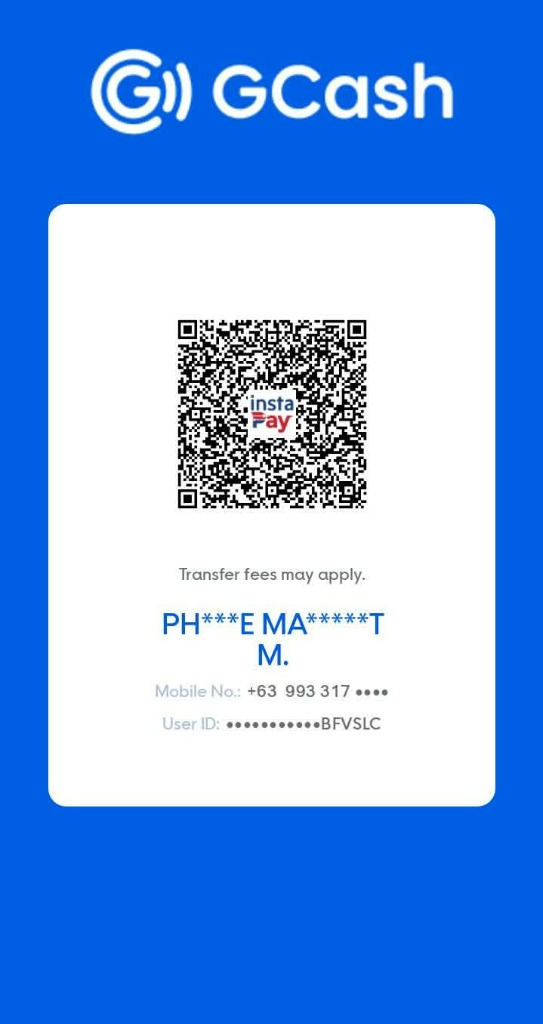
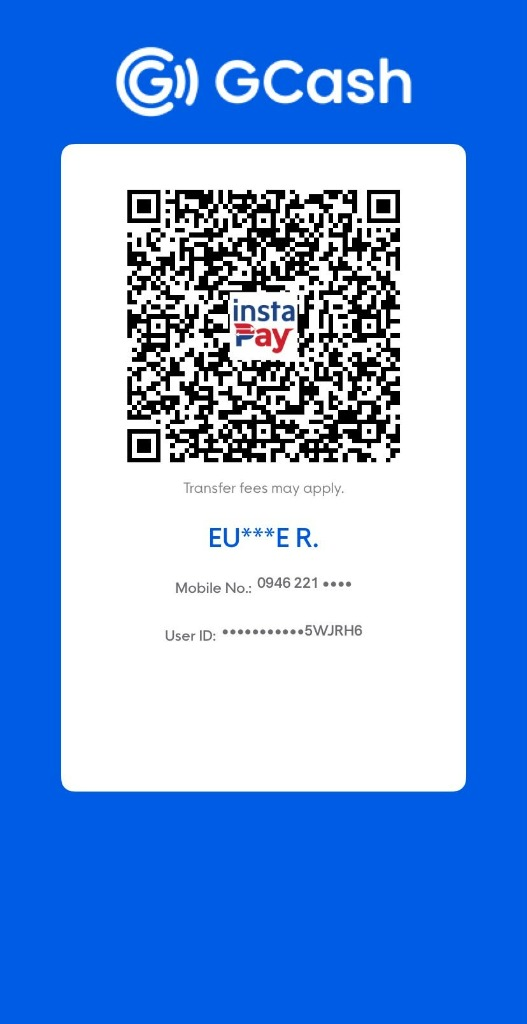
feat(payments): update official GCash QR image, remove account name, and enable instant direct QR payment

Changed region(s): [[0.0607, 0.0312, 0.9412, 0.8125], [0.2732, 0.6562, 0.425, 0.7188]]

diff --git a/app/book/page.tsx b/app/book/page.tsx
@@ -944,7 +944,7 @@ function BookTripContent() {
                     </Card>
 
                     {/* Official PayMongo GCash Gateway Payment Form */}
-                    <form onSubmit={handleProceedToCheckout} className="space-y-6">
+                    <form onSubmit={paymentMethod === "gcash_qr" ? handleConfirmDirectGcash : handleProceedToCheckout} className="space-y-6">
                         {/* SELECTION NG PICK-UP LOCATION (DESIGNATED BOARDING POINT) */}
                         <div className="space-y-3 rounded-2xl border-2 border-blue-500/50 p-4 bg-gradient-to-br from-blue-50/70 via-background to-blue-50/30 dark:from-blue-950/40 dark:via-background dark:to-blue-950/20 shadow-md">
                             <div className="flex items-center justify-between border-b pb-2">
@@ -1221,8 +1221,8 @@ function BookTripContent() {
                             </div>
                         </div>
 
-                        {/* 3. Official PayMongo GCash Payment Card (No Personal QR Required) */}
-                        <div className="rounded-2xl border-2 border-blue-500/50 bg-gradient-to-b from-blue-50/70 via-white to-blue-50/30 dark:from-blue-950/40 dark:via-zinc-900 dark:to-zinc-950 p-5 space-y-4 shadow-md">
+                        {/* 3. Payment Method Section: Direct GCash QR or PayMongo Gateway */}
+                        <div className="rounded-2xl border-2 border-blue-500/50 bg-gradient-to-b from-blue-50/70 via-white to-blue-50/30 dark:from-blue-950/40 dark:via-zinc-900 dark:to-zinc-950 p-5 space-y-5 shadow-md">
                             <div className="flex items-center justify-between border-b border-blue-200/80 dark:border-blue-900/60 pb-3">
                                 <div className="flex items-center gap-2.5">
                                     <div className="h-9 w-9 rounded-full bg-blue-600 text-white flex items-center justify-center font-black text-base shadow-sm">
@@ -1230,34 +1230,154 @@ function BookTripContent() {
                                     </div>
                                     <div>
                                         <h3 className="font-extrabold text-blue-950 dark:text-blue-100 text-base leading-tight">
-                                            3. GCash Online Payment (via PayMongo Gateway)
+                                            3. GCash Payment
                                         </h3>
                                         <p className="text-xs text-blue-700 dark:text-blue-300">
-                                            Official BSP-Supervised Automated Payment Gateway
+                                            Pumili ng paraan ng pagbayad sa GCash
                                         </p>
                                     </div>
                                 </div>
                                 <span className="text-xs font-bold px-3 py-1 rounded-full bg-emerald-600 text-white flex items-center gap-1.5 shadow-sm">
                                     <ShieldCheck className="h-4 w-4" />
-                                    100% Automated &amp; Instant
+                                    100% Verified Booking
                                 </span>
                             </div>
 
-                            {/* Gateway Information Banner */}
-                            <div className="rounded-xl bg-blue-100/70 dark:bg-blue-950/50 border border-blue-200 dark:border-blue-800 p-4 space-y-2 text-xs">
-                                <p className="font-bold text-blue-950 dark:text-blue-100 flex items-center gap-1.5">
-                                    <Sparkles className="h-4 w-4 text-blue-600 shrink-0" />
-                                    <span>Zero Manual Reference Verification:</span>
-                                </p>
-                                <p className="text-blue-900/90 dark:text-blue-200/90 leading-relaxed">
-                                    Hindi mo na kailangang mag-type ng Reference Number o mag-upload ng screenshot ng resibo. Pag-click ng <strong>&ldquo;Proceed to GCash Payment&rdquo;</strong>, ididirekta ka sa opisyal na PayMongo portal kung saan automatic na magbubukas ang iyong GCash app o opisyal na Dynamic QR code.
-                                </p>
-                                <div className="flex flex-wrap items-center gap-3 pt-1 text-[11px] font-semibold text-blue-800 dark:text-blue-300">
-                                    <span>• Instant QR Boarding Pass</span>
-                                    <span>• Automatic Audit &amp; Direct Admin Report</span>
-                                    <span>• PCI-DSS Level 1 Encrypted</span>
-                                </div>
+                            {/* Payment Method Selector Tabs */}
+                            <div className="grid grid-cols-2 gap-2 bg-blue-100/60 dark:bg-zinc-800 p-1.5 rounded-xl border border-blue-200 dark:border-zinc-700">
+                                <button
+                                    type="button"
+                                    onClick={() => setPaymentMethod("gcash_qr")}
+                                    className={`py-2.5 px-3 rounded-lg text-xs font-black transition-all flex items-center justify-center gap-2 ${
+                                        paymentMethod === "gcash_qr"
+                                            ? "bg-blue-600 text-white shadow-md"
+                                            : "text-muted-foreground hover:text-foreground"
+                                    }`}
+                                >
+                                    <QrCode className="h-4 w-4" />
+                                    <span>Direct GCash QR (Recommended)</span>
+                                </button>
+                                <button
+                                    type="button"
+                                    onClick={() => setPaymentMethod("paymongo")}
+                                    className={`py-2.5 px-3 rounded-lg text-xs font-black transition-all flex items-center justify-center gap-2 ${
+                                        paymentMethod === "paymongo"
+                                            ? "bg-blue-600 text-white shadow-md"
+                                            : "text-muted-foreground hover:text-foreground"
+                                    }`}
+                                >
+                                    <Wallet className="h-4 w-4" />
+                                    <span>PayMongo Gateway</span>
+                                </button>
                             </div>
+
+                            {/* TAB 1: DIRECT GCASH QR (SCAN TO PAY) */}
+                            {paymentMethod === "gcash_qr" && (
+                                <div className="space-y-4">
+                                    {/* QR Code Container */}
+                                    <div className="flex flex-col items-center justify-center p-4 bg-white dark:bg-zinc-800 rounded-2xl border-2 border-blue-200 dark:border-blue-900 shadow-sm space-y-3">
+                                        <div className="text-center space-y-1">
+                                            <span className="text-xs font-black text-blue-600 uppercase tracking-wider">
+                                                InstaPay &bull; GCash Official QR
+                                            </span>
+                                            <p className="text-[11px] text-muted-foreground">
+                                                I-scan gamit ang iyong GCash app para magbayad
+                                            </p>
+                                        </div>
+
+                                        {/* eslint-disable-next-line @next/next/no-img-element */}
+                                        <img
+                                            src={customQrUrl || process.env.NEXT_PUBLIC_GCASH_QR_URL || "/gcash-qr.jpg"}
+                                            alt="Superlines GCash QR Code"
+                                            className="max-h-72 w-auto rounded-xl border-2 border-blue-400 shadow-md bg-white p-1 object-contain"
+                                        />
+
+                                        <div className="flex items-center gap-3 text-xs font-semibold">
+                                            <a
+                                                href={customQrUrl || process.env.NEXT_PUBLIC_GCASH_QR_URL || "/gcash-qr.jpg"}
+                                                download="superlines-gcash-qr.jpg"
+                                                className="inline-flex items-center gap-1 text-blue-600 hover:text-blue-700 underline"
+                                            >
+                                                Save / Download QR Code
+                                            </a>
+                                        </div>
+                                    </div>
+
+                                    {/* Amount Details Box */}
+                                    <div className="rounded-xl bg-blue-50/70 dark:bg-blue-950/40 p-4 border border-blue-200 dark:border-blue-800 space-y-2 text-xs">
+                                        <div className="flex items-center justify-between">
+                                            <span className="font-bold text-foreground">Exact Amount to Send:</span>
+                                            <div className="flex items-center gap-2">
+                                                <span className="font-black text-lg text-emerald-600 dark:text-emerald-400 font-mono">
+                                                    ₱{finalFare}.00
+                                                </span>
+                                                <Button
+                                                    type="button"
+                                                    variant="outline"
+                                                    size="sm"
+                                                    className="h-7 px-2 text-xs font-bold text-blue-600 hover:text-blue-700"
+                                                    onClick={() => handleCopy(String(finalFare), "amount")}
+                                                >
+                                                    {copied === "amount" ? (
+                                                        <span className="flex items-center gap-1 text-emerald-600">
+                                                            <Check className="h-3 w-3" /> Copied
+                                                        </span>
+                                                    ) : (
+                                                        <span className="flex items-center gap-1">
+                                                            <Copy className="h-3 w-3" /> Copy ₱{finalFare}
+                                                        </span>
+                                                    )}
+                                                </Button>
+                                            </div>
+                                        </div>
+                                        <p className="text-[11px] text-muted-foreground leading-relaxed">
+                                            Buksan ang GCash app, pindutin ang <strong>QR (Scan)</strong>, i-scan ang code sa itaas, at bayaran ang eksaktong halaga na <strong>₱{finalFare}.00</strong>.
+                                        </p>
+                                    </div>
+
+                                    {/* GCash Reference Number Input */}
+                                    <div className="space-y-1.5 rounded-xl border p-4 bg-card">
+                                        <Label htmlFor="gcashRefInput" className="font-extrabold text-xs flex items-center justify-between">
+                                            <span className="flex items-center gap-1">
+                                                <span>GCash Reference Number (13 Digits)</span>
+                                                <span className="text-destructive">*</span>
+                                            </span>
+                                            <span className="text-[10px] text-muted-foreground font-normal">Hal: 1029384756102</span>
+                                        </Label>
+                                        <Input
+                                            id="gcashRefInput"
+                                            required
+                                            placeholder="I-type ang 13-digit Reference No. mula sa GCash receipt"
+                                            value={gcashRef}
+                                            onChange={(e) => setGcashRef(e.target.value)}
+                                            className="bg-white dark:bg-zinc-800 font-mono text-sm uppercase font-bold tracking-wider"
+                                            maxLength={30}
+                                        />
+                                        <p className="text-[10px] text-muted-foreground">
+                                            Makikita ang Reference Number sa GCash transaction receipt o SMS confirmation pagkatapos magbayad.
+                                        </p>
+                                    </div>
+                                </div>
+                            )}
+
+                            {/* TAB 2: PAYMONGO AUTOMATED GATEWAY */}
+                            {paymentMethod === "paymongo" && (
+                                <div className="space-y-4">
+                                    <div className="rounded-xl bg-blue-100/70 dark:bg-blue-950/50 border border-blue-200 dark:border-blue-800 p-4 space-y-2 text-xs">
+                                        <p className="font-bold text-blue-950 dark:text-blue-100 flex items-center gap-1.5">
+                                            <Sparkles className="h-4 w-4 text-blue-600 shrink-0" />
+                                            <span>Automated Checkout Session:</span>
+                                        </p>
+                                        <p className="text-blue-900/90 dark:text-blue-200/90 leading-relaxed">
+                                            Ididirekta ka sa opisyal na PayMongo portal kung saan automatic na magbubukas ang iyong GCash app para mag-login at magbayad gamit ang iyong GCash OTP.
+                                        </p>
+                                        <div className="flex flex-wrap items-center gap-3 pt-1 text-[11px] font-semibold text-blue-800 dark:text-blue-300">
+                                            <span>• 100% Instant Webhook Sync</span>
+                                            <span>• PCI-DSS Level 1 Encrypted</span>
+                                        </div>
+                                    </div>
+                                </div>
+                            )}
 
                             {/* Official Terms & Conditions */}
                             <div className="rounded-xl border p-4 bg-card space-y-3">
@@ -1286,13 +1406,13 @@ function BookTripContent() {
                                         </div>
                                         <div className="space-y-1">
                                             <p className="font-bold text-foreground">1. Ticketing, Rebooking, and Cancellations</p>
-                                            <p>• <strong>Reservation Policy:</strong> Tickets are valid only for the specific date and trip indicated.</p>
-                                            <p>• <strong>Arrival Time:</strong> Passengers must be at the terminal at least one (1) hour before departure.</p>
-                                            <p>• <strong>Penalty Fees:</strong> 20% penalty fee of the ticket price will be charged for rebooking.</p>
+                                            <p>&bull; <strong>Reservation Policy:</strong> Tickets are valid only for the specific date and trip indicated.</p>
+                                            <p>&bull; <strong>Arrival Time:</strong> Passengers must be at the terminal at least one (1) hour before departure.</p>
+                                            <p>&bull; <strong>Penalty Fees:</strong> 20% penalty fee of the ticket price will be charged for rebooking.</p>
                                         </div>
                                         <div className="space-y-1 pt-1 border-t">
                                             <p className="font-bold text-foreground">2. Safety and Code of Conduct</p>
-                                            <p>• In compliance with LTFRB Safe Spaces Act (Bawal ang Bastos), disrespectful behavior is strictly prohibited.</p>
+                                            <p>&bull; In compliance with LTFRB Safe Spaces Act (Bawal ang Bastos), disrespectful behavior is strictly prohibited.</p>
                                         </div>
                                     </div>
                                 )}
@@ -1318,18 +1438,22 @@ function BookTripContent() {
                                 className="w-full bg-blue-600 hover:bg-blue-700 text-white font-black text-base shadow-lg shadow-blue-500/25 py-6 rounded-xl"
                                 disabled={submitting}
                             >
-                                {submitting ? "Redirecting to PayMongo GCash Gateway..." : (
+                                {submitting ? (
+                                    paymentMethod === "gcash_qr" ? "Verifying &amp; Generating Boarding Pass..." : "Redirecting to PayMongo Gateway..."
+                                ) : (
                                     <span className="flex items-center justify-center gap-2">
                                         <Wallet className="h-5 w-5" />
-                                        Proceed to Pay with GCash (₱{finalFare}.00) &rarr;
+                                        {paymentMethod === "gcash_qr"
+                                            ? `Confirm GCash Payment & Get Boarding Pass (₱${finalFare}.00) →`
+                                            : `Proceed to Pay via PayMongo Gateway (₱${finalFare}.00) →`}
                                     </span>
                                 )}
                             </Button>
                             <p className="text-[11px] text-center text-muted-foreground">
-                                ✉ Official Confirmation: Once paid via GCash, your verified QR Boarding Pass will be issued automatically and synced immediately to Superlines Admin Reports.
+                                ✉ Official Confirmation: Once submitted, your verified QR Boarding Pass will be generated instantly and dispatched directly to your Gmail!
                             </p>
                         </div>
-                    </form>
+</form>
                 </div>
             )}
         </div>

diff --git a/app/api/payments/gcash-direct/route.ts b/app/api/payments/gcash-direct/route.ts
@@ -7,6 +7,7 @@ import { enforceRateLimit, getClientIp } from "@/lib/rate-limiter";
 import { validateAndSanitizeEmail, sanitizeString, validateGuestCount } from "@/lib/validators";
 import { slotHoldManager } from "@/lib/slot-hold";
 import { resolveAppOrigin } from "@/lib/app-url";
+import { dispatchTicketEmail } from "@/lib/ticket-email";
 
 export async function POST(req: NextRequest) {
     // 🔒 Rate Limiting: Max 10 booking requests per 15 minutes per IP (Brute-force protection)
@@ -341,22 +342,18 @@ export async function POST(req: NextRequest) {
             // Step 6: Dispatch e-ticket boarding pass to passenger email
             if (passengerEmail) {
                 try {
-                    const originUrl = resolveAppOrigin(req);
-                    fetch(`${originUrl}/api/tickets/send-ticket-email`, {
-                        method: "POST",
-                        headers: { "Content-Type": "application/json" },
-                        body: JSON.stringify({
-                            booking_id: bookingId,
-                            recipient_email: passengerEmail,
-                            passenger_name: passengerName,
-                            trip: body.trip,
-                            seat_number: effectiveSeatNumber,
-                            seat_numbers: seatsToCheck,
-                            total_price: totalPrice,
-                            qr_token: qrToken,
-                            gcash_ref: cleanRef,
-                        }),
-                    }).catch(err => console.warn("Email auto-dispatch background notice:", err));
+                    dispatchTicketEmail({
+                        bookingId,
+                        recipientEmail: passengerEmail,
+                        passengerName,
+                        trip: body.trip,
+                        seatNumber: effectiveSeatNumber,
+                        seatNumbers: seatsToCheck,
+                        totalPrice,
+                        qrToken,
+                        transactionRef: cleanRef,
+                        req,
+                    }).catch(err => console.warn("Email auto-dispatch notice:", err));
                 } catch (mailErr) {
                     console.warn("Email dispatch notice:", mailErr);
                 }
